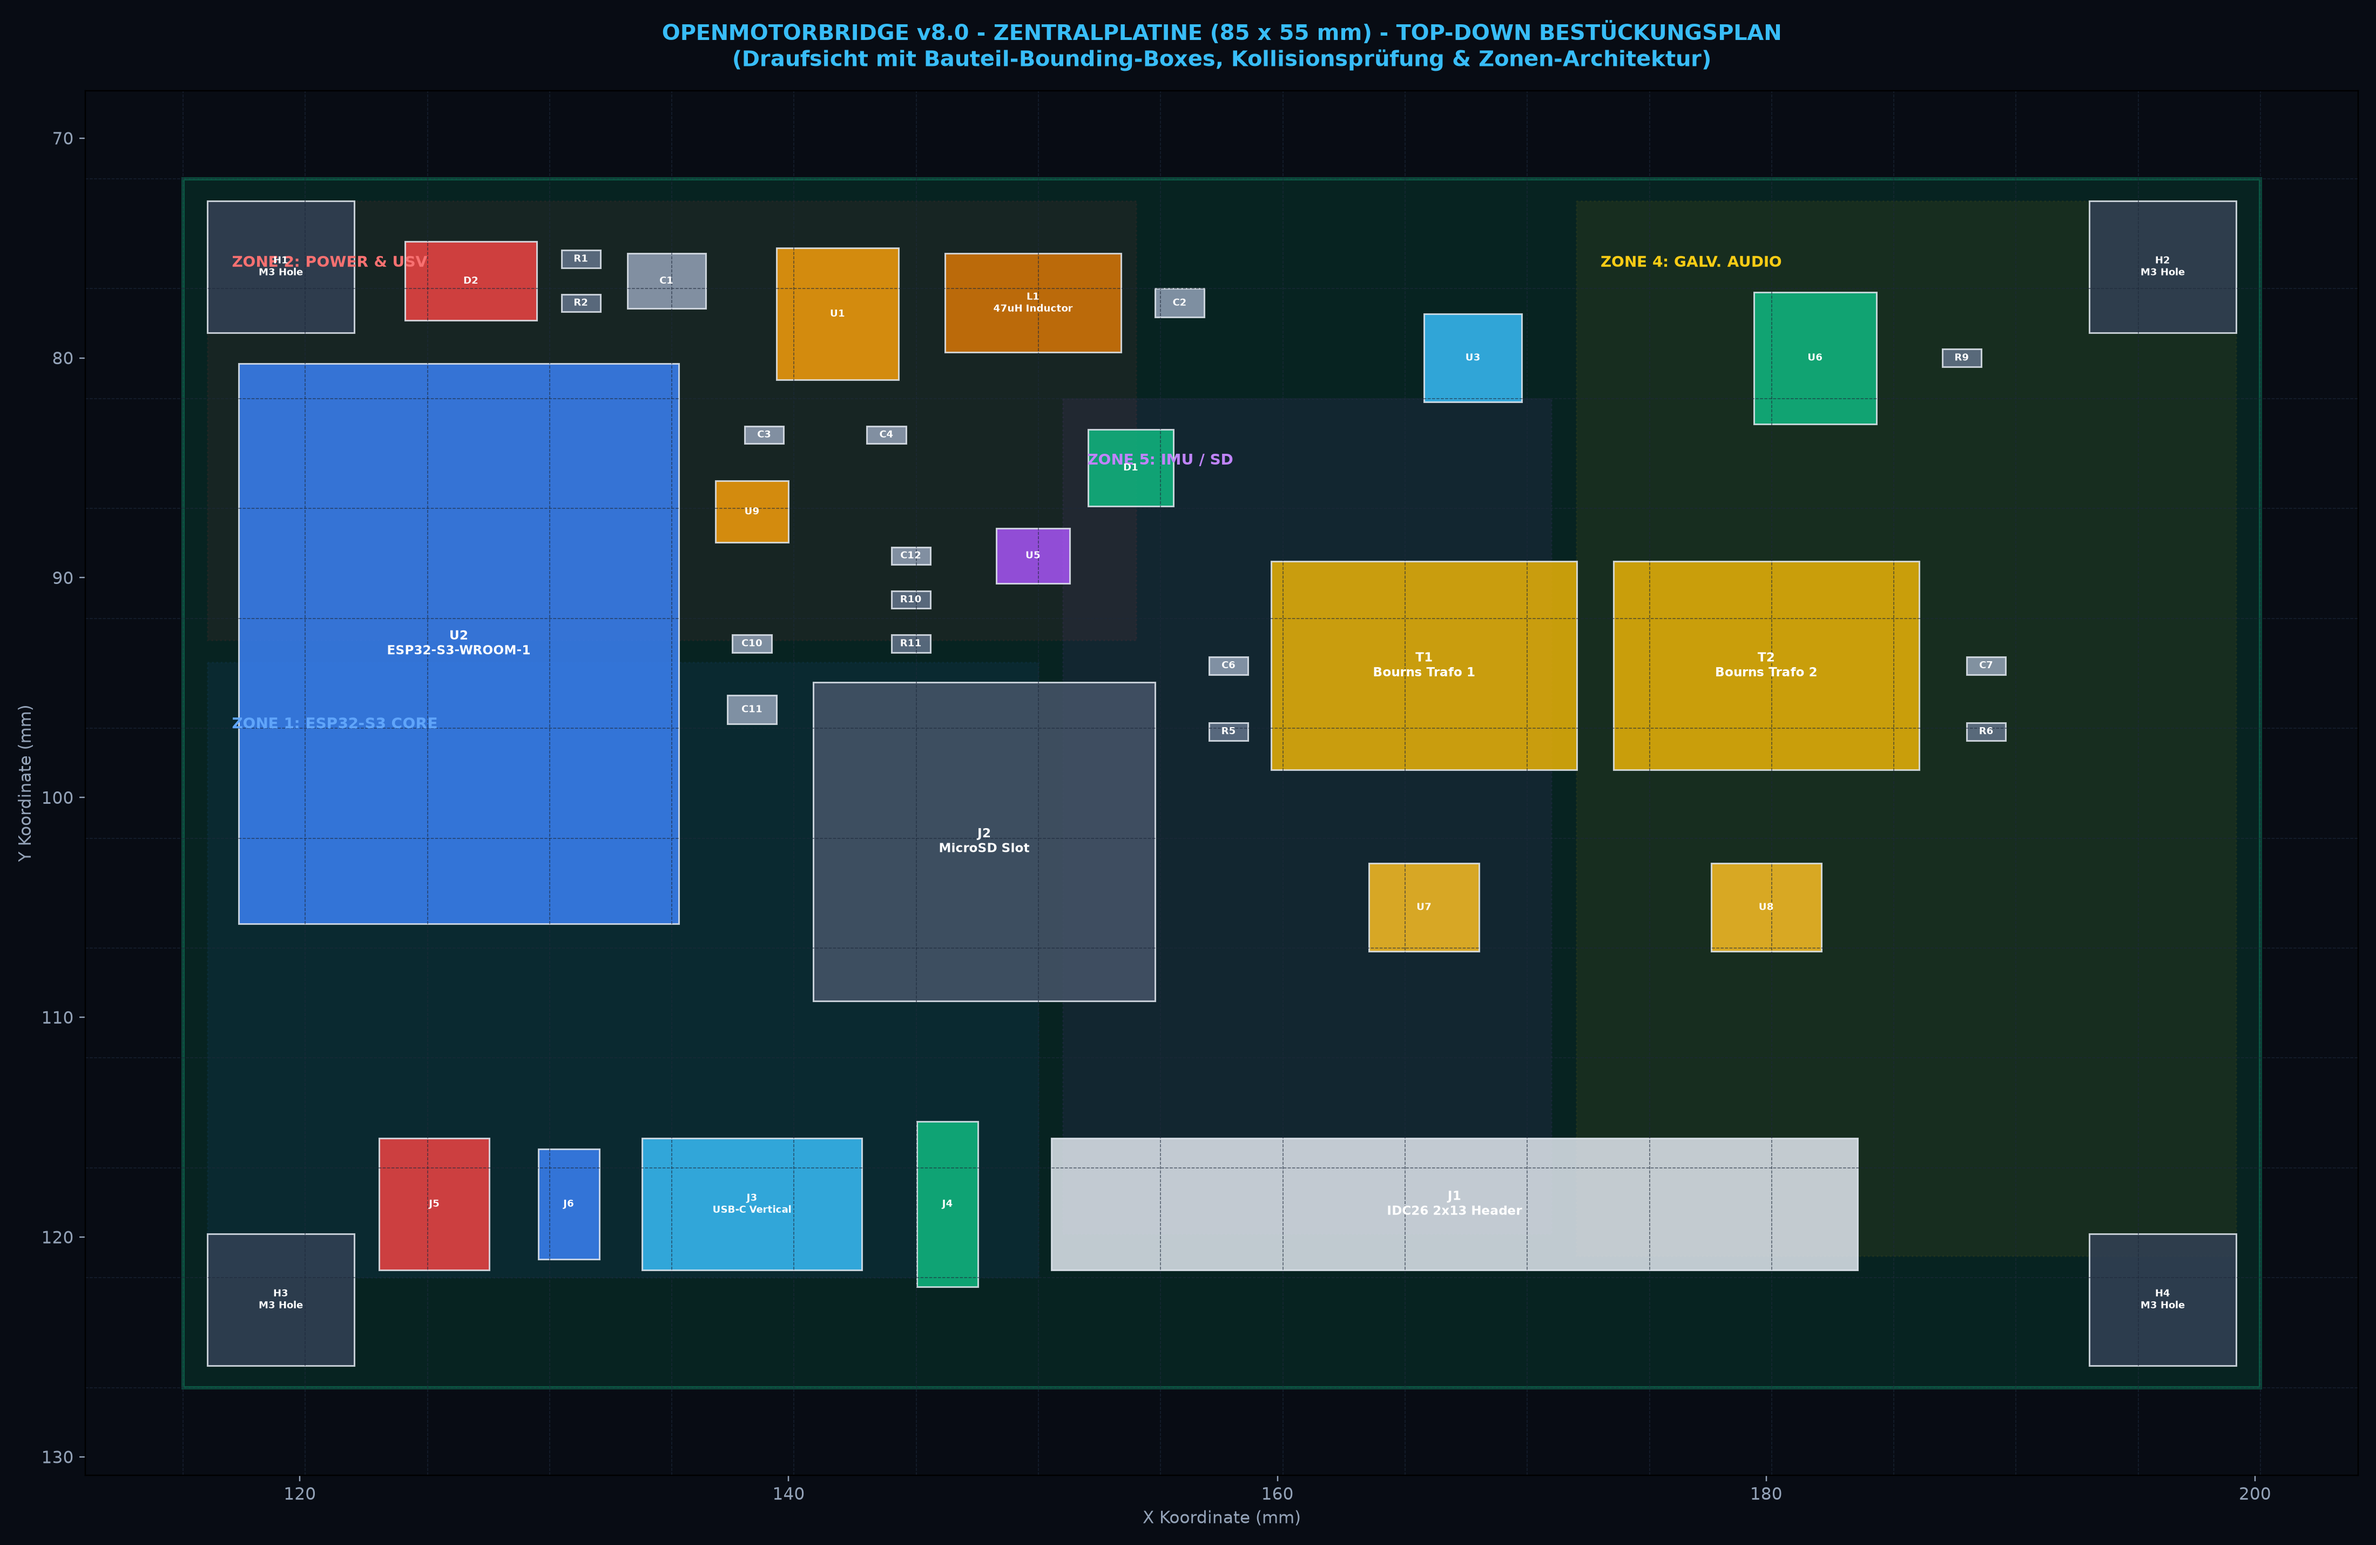
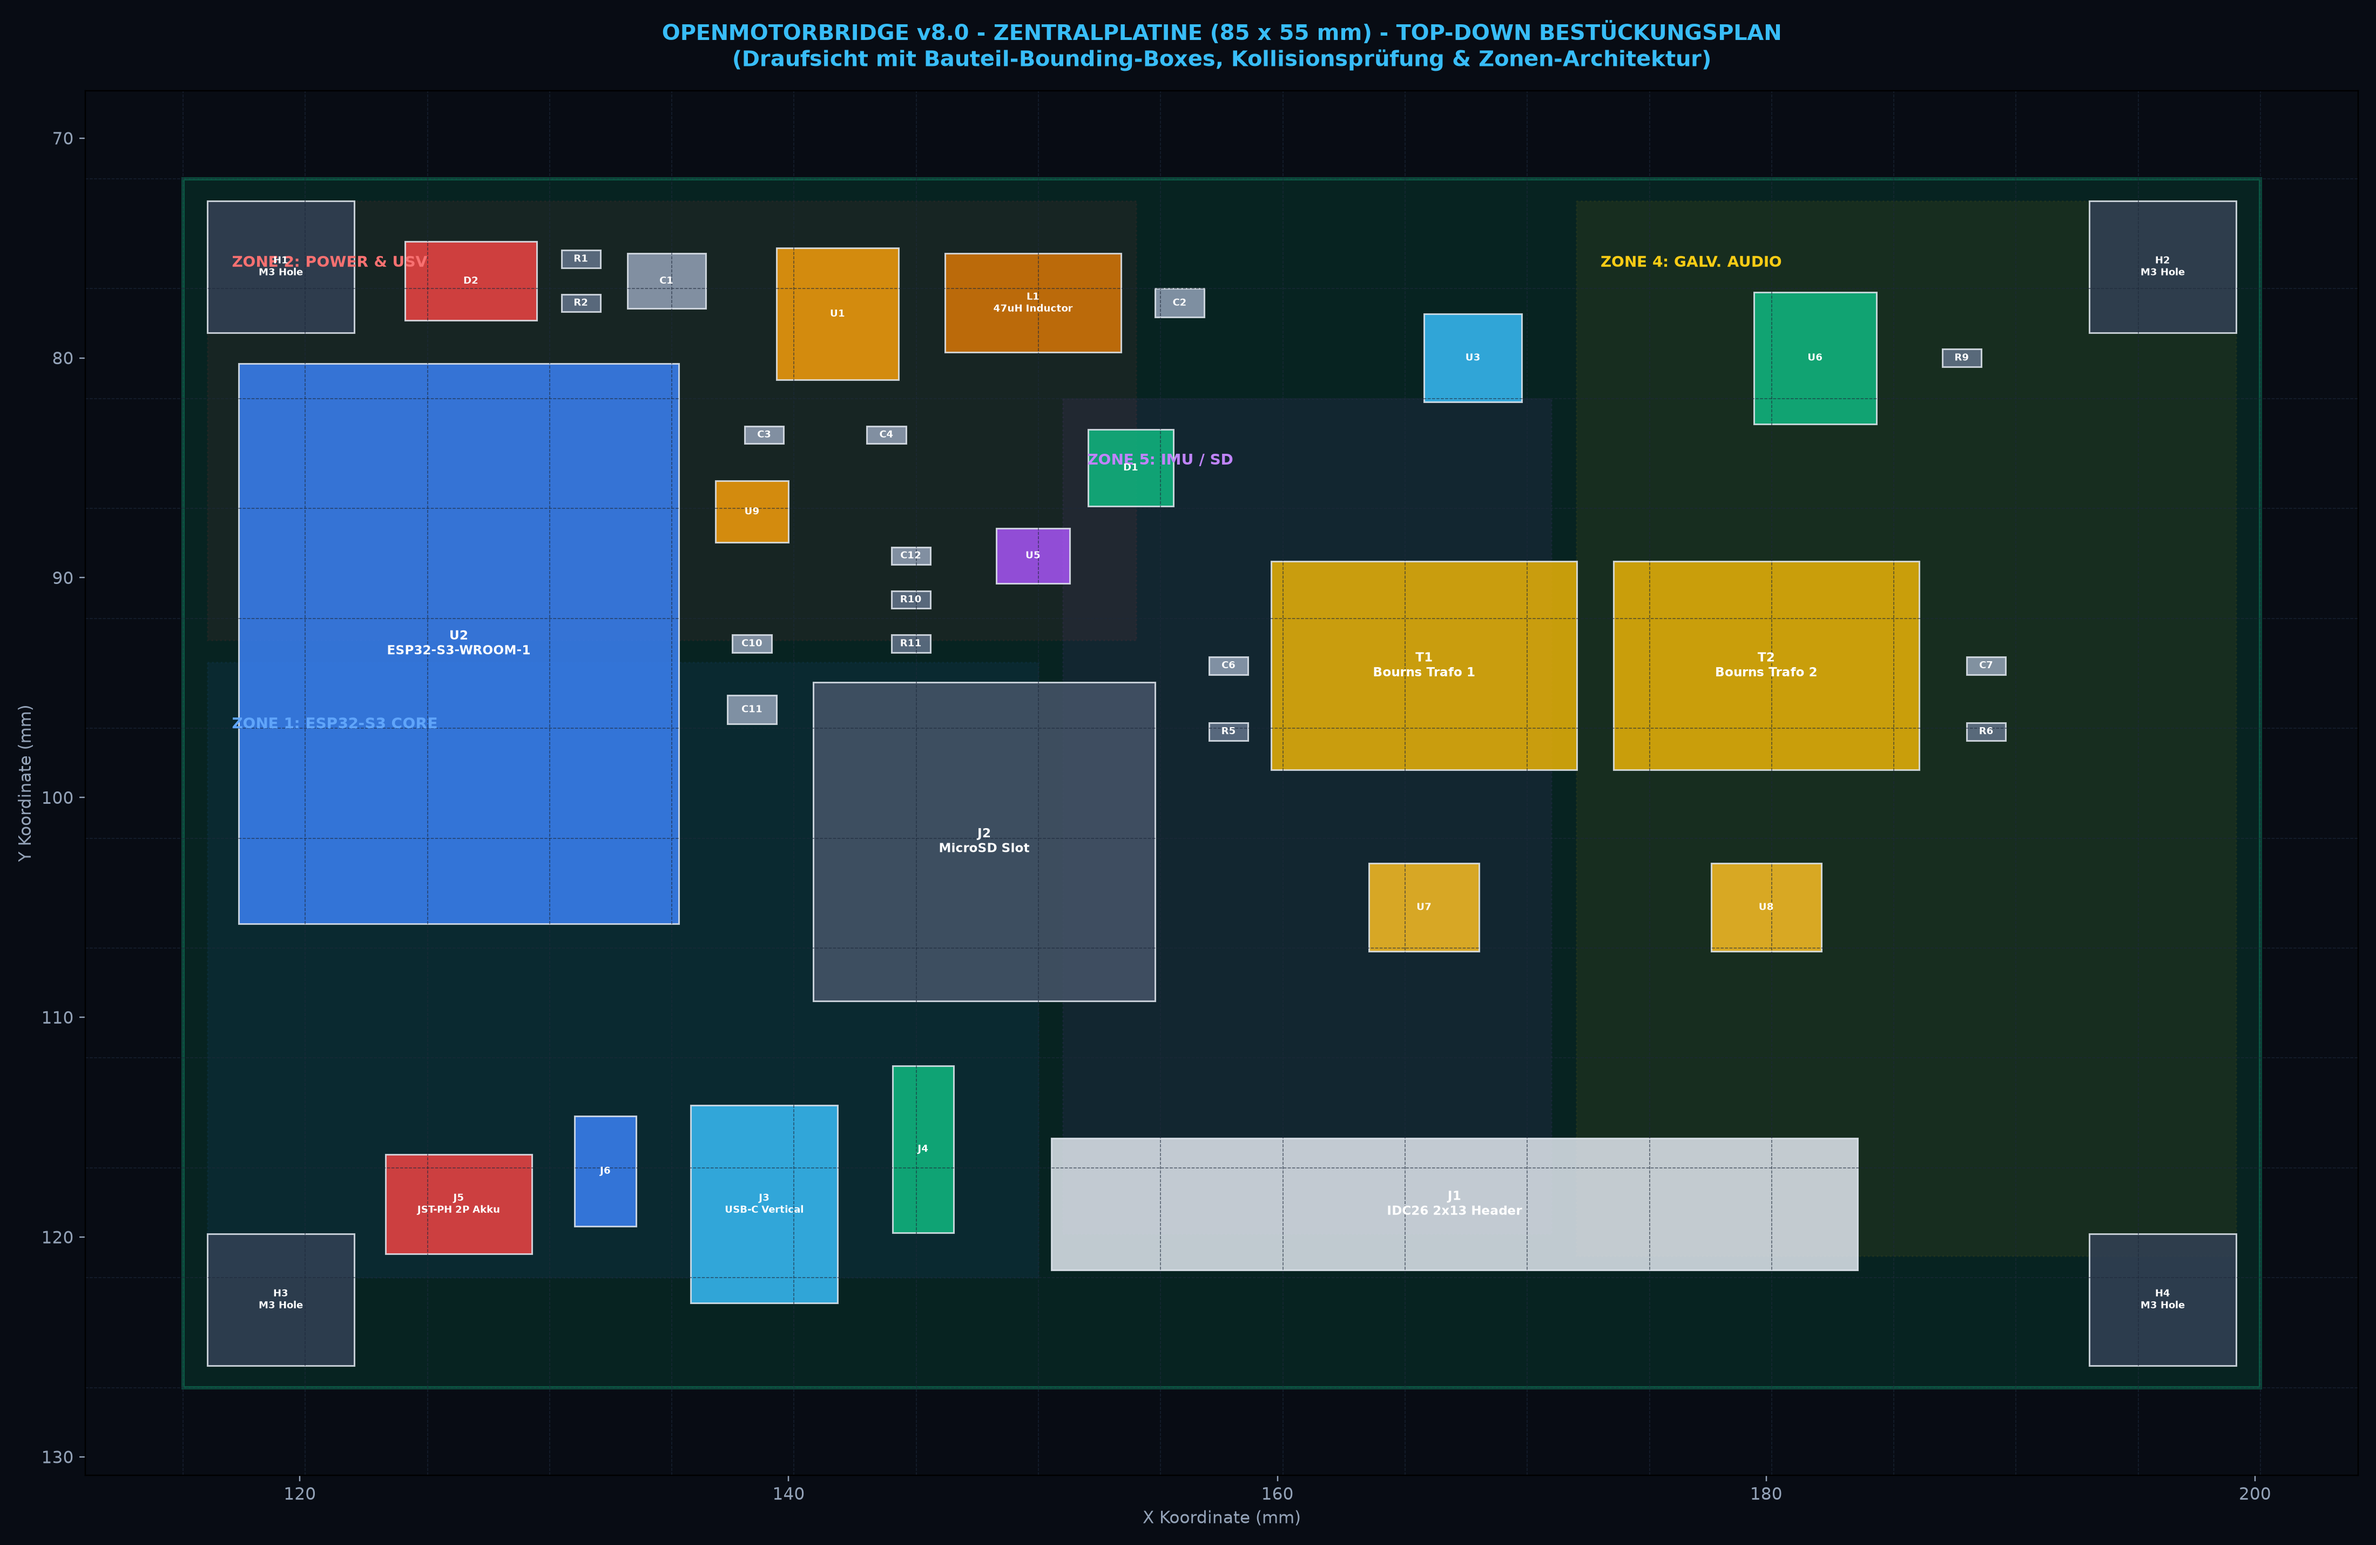
fix(pcb): rotate J4 vertically in Y and compact left connectors to ensure 4.5mm air gap to J1

Changed region(s): [[0.1557, 0.6846, 0.4359, 0.8713]]

diff --git a/hardware/scripts/generate_main_box_cad.py b/hardware/scripts/generate_main_box_cad.py
@@ -229,18 +229,18 @@ def render_main_box_cad(output_path):
 
     # - Bottom Connector Rail (Y = -22 to -17):
     # Left Group:
-    # J5 (LiPo Akku 2P at X_CAD = -32.2)
-    draw_box(ax2, -34.5, -22, -8.9, 4.5, 6, 5.0, color='#ef4444', alpha=0.95, edgecolor='#dc2626', linewidth=0.6)
-    # J6 (NTC 2P at X_CAD = -26.7)
-    draw_box(ax2, -28.0, -22, -8.9, 2.5, 5, 5.0, color='#3b82f6', alpha=0.95, edgecolor='#2563eb', linewidth=0.6)
-    # J3 (USB-C Service Port at X_CAD = -19.2) - Directly under front USB-C!
-    draw_box(ax2, -23.7, -22, -8.9, 9, 6, 5.0, color='#38bdf8', alpha=0.95, edgecolor='#0284c7', linewidth=0.6)
-    # J4 (3-Port RGB LED Header at X_CAD = -11.2) - Directly behind front RGB LED!
-    draw_box(ax2, -12.5, -22, -8.9, 2.5, 7.5, 5.0, color='#10b981', alpha=0.95, edgecolor='#059669', linewidth=0.6)
+    # J5 (LiPo Akku 2P at X_CAD = -31.2)
+    draw_box(ax2, -34.2, -22, -8.9, 6.0, 4.5, 5.0, color='#ef4444', alpha=0.95, edgecolor='#dc2626', linewidth=0.6)
+    # J6 (NTC 2P at X_CAD = -25.2)
+    draw_box(ax2, -26.5, -22, -8.9, 2.5, 5.0, 5.0, color='#3b82f6', alpha=0.95, edgecolor='#2563eb', linewidth=0.6)
+    # J3 (USB-C Service Port at X_CAD = -18.7, Rotated 90°: 6x9 mm)
+    draw_box(ax2, -21.7, -22, -8.9, 6.0, 9.0, 5.0, color='#38bdf8', alpha=0.95, edgecolor='#0284c7', linewidth=0.6)
+    # J4 (3-Port RGB LED Header at X_CAD = -12.2, Vertical: 2.5x7.6 mm)
+    draw_box(ax2, -13.5, -22, -8.9, 2.5, 7.6, 5.0, color='#10b981', alpha=0.95, edgecolor='#059669', linewidth=0.6)
     
     # Right Group:
-    # J1 (26-Port IDC Header 2x13 at X_CAD = +10.3, spans X = -6.2 to +26.8, Y = -22 to -16)
-    draw_box(ax2, -6.2, -22, -8.9, 33, 6, 5.4, color='#0f172a', alpha=0.95, edgecolor='#fbbf24', linewidth=0.8)
+    # J1 (26-Port IDC Header 2x13 at X_CAD = -5.7 to +27.3, Y = -22 to -16)
+    draw_box(ax2, -5.7, -22, -8.9, 33.0, 6.0, 5.4, color='#0f172a', alpha=0.95, edgecolor='#fbbf24', linewidth=0.8)
 
     # 4x Vibration PCB Mounts
     for px, py in [(-38, -23), (-38, 23), (38, -23), (38, 23)]:

diff --git a/hardware/scripts/autoplace_openmotorbridge.py b/hardware/scripts/autoplace_openmotorbridge.py
@@ -115,10 +115,10 @@ def auto_place_main_board(pcb_path):
         'U8': (180.0, 105.0, 0.0),            # Toshiba TLP222A PhotoMOS Optocoupler 2 (4.5 x 4.0 mm)
 
         # Zone 1A: Left Front Connector Cluster (Power, Battery, USB-C & Status LED)
-        'J5': (125.5, 118.5, 90.0),           # LiPo Akku JST-PH 2-Pin (Rotated 90°: 4.5 x 6.0 mm)
-        'J6': (131.0, 118.5, 90.0),           # NTC JEITA Sensor 2-Pin (Rotated 90°: 2.5 x 5.0 mm)
-        'J3': (138.5, 118.5, 0.0),            # USB-C Service Port (9.0 x 6.0 mm, direct to ESP32/USV)
-        'J4': (146.5, 118.5, 90.0),           # 3-Pin RGB LED Header (Rotated 90°: 2.5 x 7.5 mm)
+        'J5': (126.5, 118.5, 0.0),            # LiPo Akku JST-PH 2-Pin (6.0 x 4.5 mm)
+        'J6': (132.5, 117.0, 0.0),            # NTC JEITA Sensor 2-Pin (Vertical in Y: 2.5 x 5.0 mm)
+        'J3': (139.0, 118.5, 90.0),           # USB-C Service Port (Rotated 90°: 6.0 x 9.0 mm)
+        'J4': (145.5, 116.0, 0.0),            # 3-Pin RGB LED Header (Vertical in Y: 2.5 x 7.6 mm)
 
         # Zone 1B: Right Front Connector (Horizontal J1 - Pin 1 at X=152.0, body X=152..185 mm)
         'J1': (152.0, 118.5, 90.0),           # 26-Port IDC Box Header 2x13 (KiCad Pin 1 Origin at X=152, body spans X=152..185 mm)

diff --git a/hardware/scripts/check_pcb_overlaps.py b/hardware/scripts/check_pcb_overlaps.py
@@ -59,8 +59,8 @@ def check_and_render_pcb(layout, output_path):
         'J2': (14.0, 14.5, '#475569', 'MicroSD Slot'),
         'J1': (6.0, 33.0, '#e2e8f0', 'IDC26 2x13 Header'),
         'J5': (6.0, 4.5, '#ef4444', 'JST-PH 2P Akku'),
-        'J6': (5.0, 2.5, '#3b82f6', 'NTC 2P'),
-        'J4': (7.5, 2.5, '#10b981', 'RGB 3P'),
+        'J6': (2.5, 5.0, '#3b82f6', 'NTC 2P'),
+        'J4': (2.5, 7.6, '#10b981', 'RGB 3P'),
         'J3': (9.0, 6.0, '#38bdf8', 'USB-C Vertical'),
 
         # Mounting Holes (Ø 6.0 mm keepout)

diff --git a/docs/de/02_pcb_hardware_pinout.md b/docs/de/02_pcb_hardware_pinout.md
@@ -74,12 +74,12 @@ Um gegenseitige Störungen zwischen der Schaltnetzteil-HF ($2{,}1\,\text{MHz}$),
 
 1. **Zone 1 (Vorderkante – 2 funktionale Stecker-Cluster):**
    * **Zone 1A (Links – Power, Service & Signalisierung):**
-     * `J5`: 2-Pin JST-PH LiPo-Akkubuchse ($90^\circ$ gedreht: $4{,}5 \times 6{,}0\,\text{mm}$)
-     * `J6`: 2-Pin Micro-Header für NTC-Sensor ($90^\circ$ gedreht: $2{,}5 \times 5{,}0\,\text{mm}$)
-     * `J3`: Vertikale USB-C Service-Buchse ($9{,}0 \times 6{,}0\,\text{mm}$) – Direkt neben ESP32 & BQ24075 (ultrakurze D+/D- Leitungen)
-     * `J4`: 3-Pin RGB-LED-Anschluss ($90^\circ$ gedreht: $2{,}5 \times 7{,}5\,\text{mm}$) – Direkt am GPIO-Port des ESP32
+     * `J5`: 2-Pin JST-PH LiPo-Akkubuchse ($6{,}0 \times 4{,}5\,\text{mm}$) bei $X = 126{,}5\,\text{mm}$
+     * `J6`: 2-Pin Micro-Header für NTC-Sensor ($2{,}5 \times 5{,}0\,\text{mm}$, vertikal in Y) bei $X = 132{,}5\,\text{mm}$
+     * `J3`: Vertikale USB-C Service-Buchse ($6{,}0 \times 9{,}0\,\text{mm}$, $90^\circ$ gedreht) bei $X = 139{,}0\,\text{mm}$
+     * `J4`: 3-Pin RGB-LED-Anschluss ($2{,}5 \times 7{,}6\,\text{mm}$, vertikal in Y) bei $X = 145{,}5\,\text{mm}$ ($4{,}5\,\text{mm}$ Luft zur 26-Pin-Leiste `J1`)
    * **Zone 1B (Rechts – Galvanischer System-Hauptanschluss):**
-     * `J1`: 2x13 Pin IDC26 Wannenstecker ($33{,}0 \times 6{,}0\,\text{mm}$) – Liegt exakt unter den Audio-Übertragern `T1`/`T2` und Optokopplern `U7`/`U8`, sodass alle galvanisch getrennten Signale ohne Platinenüberquerung direkt in `J1` einmünden.
+     * `J1`: 2x13 Pin IDC26 Wannenstecker ($33{,}0 \times 6{,}0\,\text{mm}$, horizontal in X) – Pin 1 bei $X = 152{,}0\,\text{mm}$, Gehäuse erstreckt sich von $X = 152{,}0$ bis $X = 185{,}0\,\text{mm}$ direkt unter `T1`/`T2` und `U7`/`U8`.
    * **10-mm-Einführkorridor:** Barrierefreier Steckzugang für alle Stecker ohne gegenseitige Behinderung.
 2. **Zone 2 (Linke Flanke oben – Automotive Power & USV):**
    * Nimmt die raue Bordnetzspannung von KL30/KL15 auf. Enthält die Bourns PPTC-Sicherung, die SMBJ33CA TVS-Diode, den Verpolschutz-MOSFET, das $10\,\mu\text{H}$ PI-Filter sowie den TI LM5164-Q1 Step-Down-Regler und das BQ24075 USV-Lademanagement.

diff --git a/docs/en/02_pcb_hardware_pinout.md b/docs/en/02_pcb_hardware_pinout.md
@@ -74,12 +74,12 @@ To completely eliminate coupling between switching power supply harmonics ($2.1\
 
 1. **Zone 1 (Front Edge – 2 Dedicated Functional Connector Clusters):**
    * **Zone 1A (Left – Power, Service & Status):**
-     * `J5`: 2-Pin JST-PH LiPo battery socket (Rotated $90^\circ$: $4.5 \times 6.0\,\text{mm}$)
-     * `J6`: 2-Pin micro header for battery NTC sensor (Rotated $90^\circ$: $2.5 \times 5.0\,\text{mm}$)
-     * `J3`: Vertical USB-C service socket ($9.0 \times 6.0\,\text{mm}$) – Directly adjacent to ESP32 & BQ24075 (ultra-short D+/D- routing)
-     * `J4`: 3-Pin RGB LED header (Rotated $90^\circ$: $2.5 \times 7.5\,\text{mm}$) – Direct GPIO drive from ESP32
+     * `J5`: 2-Pin JST-PH LiPo battery socket ($6.0 \times 4.5\,\text{mm}$) at $X = 126.5\,\text{mm}$
+     * `J6`: 2-Pin micro header for battery NTC sensor ($2.5 \times 5.0\,\text{mm}$, vertical in Y) at $X = 132.5\,\text{mm}$
+     * `J3`: Vertical USB-C service socket ($6.0 \times 9.0\,\text{mm}$, rotated $90^\circ$) at $X = 139.0\,\text{mm}$
+     * `J4`: 3-Pin RGB LED header ($2.5 \times 7.6\,\text{mm}$, vertical in Y) at $X = 145.5\,\text{mm}$ ($4.5\,\text{mm}$ clearance to `J1`)
    * **Zone 1B (Right – Galvanic Main System Header):**
-     * `J1`: 2x13 Pin IDC26 box header ($33.0 \times 6.0\,\text{mm}$) – Situated directly beneath `T1`/`T2` audio transformers and `U7`/`U8` optocouplers for straight-drop isolated routing.
+     * `J1`: 2x13 Pin IDC26 box header ($33.0 \times 6.0\,\text{mm}$, horizontal in X) – Pin 1 at $X = 152.0\,\text{mm}$, body spans $X = 152.0$ to $X = 185.0\,\text{mm}$ directly beneath `T1`/`T2` and `U7`/`U8`.
    * **10-mm Insertion Keep-Out:** Dedicated mating space preventing mechanical collisions.
 2. **Zone 2 (Left Flank Top – Automotive Power & UPS):**
    * Accepts raw motorcycle electrical voltages (KL30/KL15). Contains the Bourns PPTC fuse, SMBJ33CA TVS diode, reverse-polarity MOSFET, $10\,\mu\text{H}$ PI filter, TI LM5164-Q1 synchronous buck converter, and TI BQ24075 UPS battery management.
